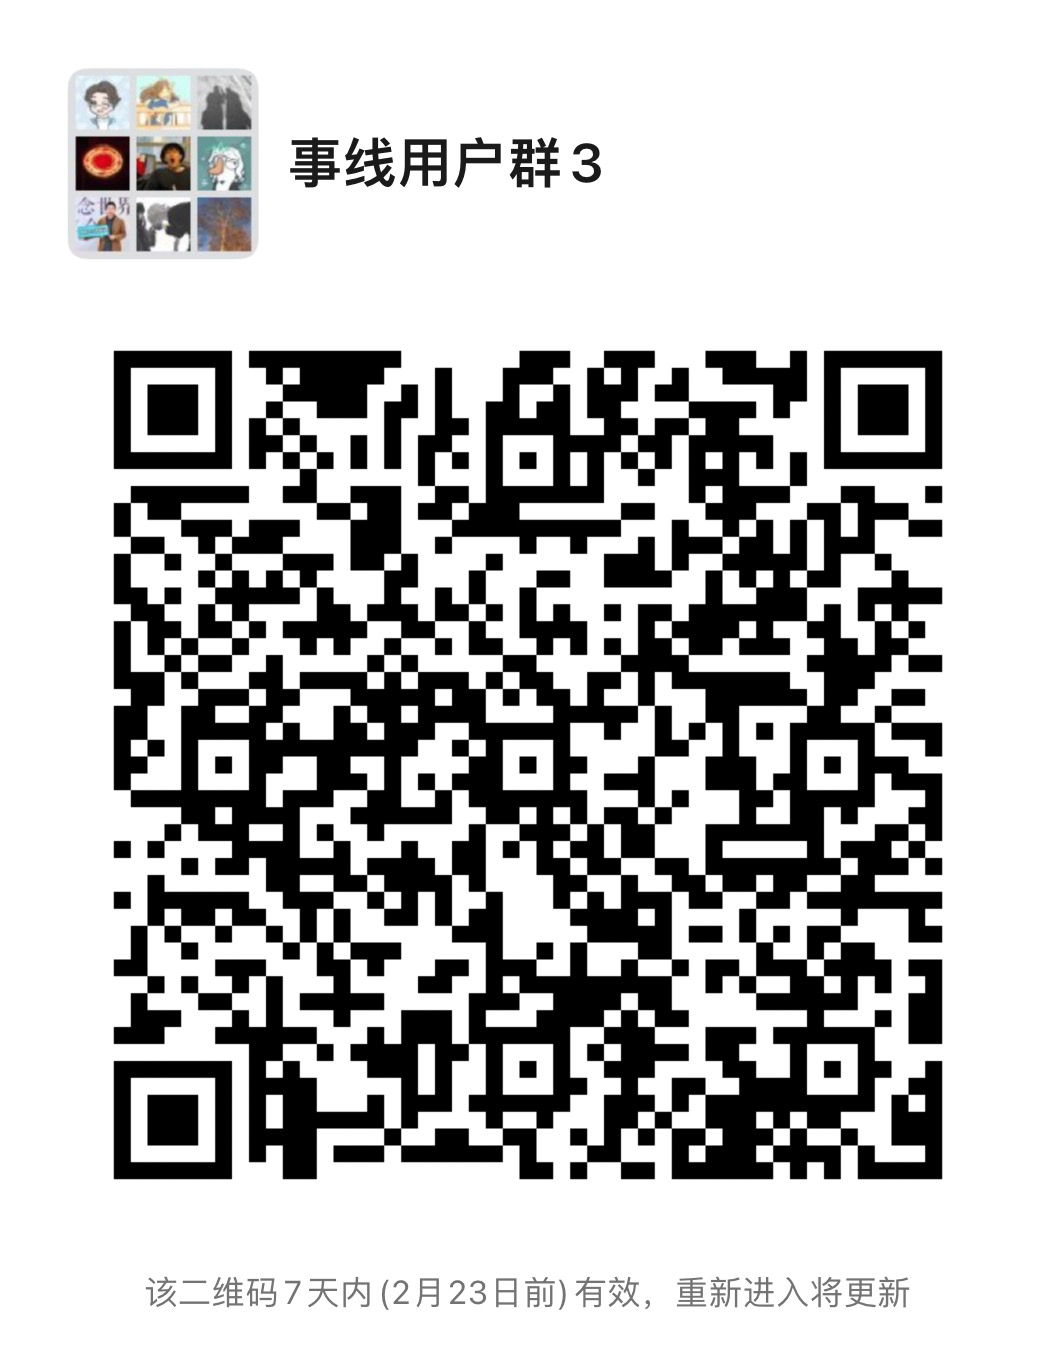
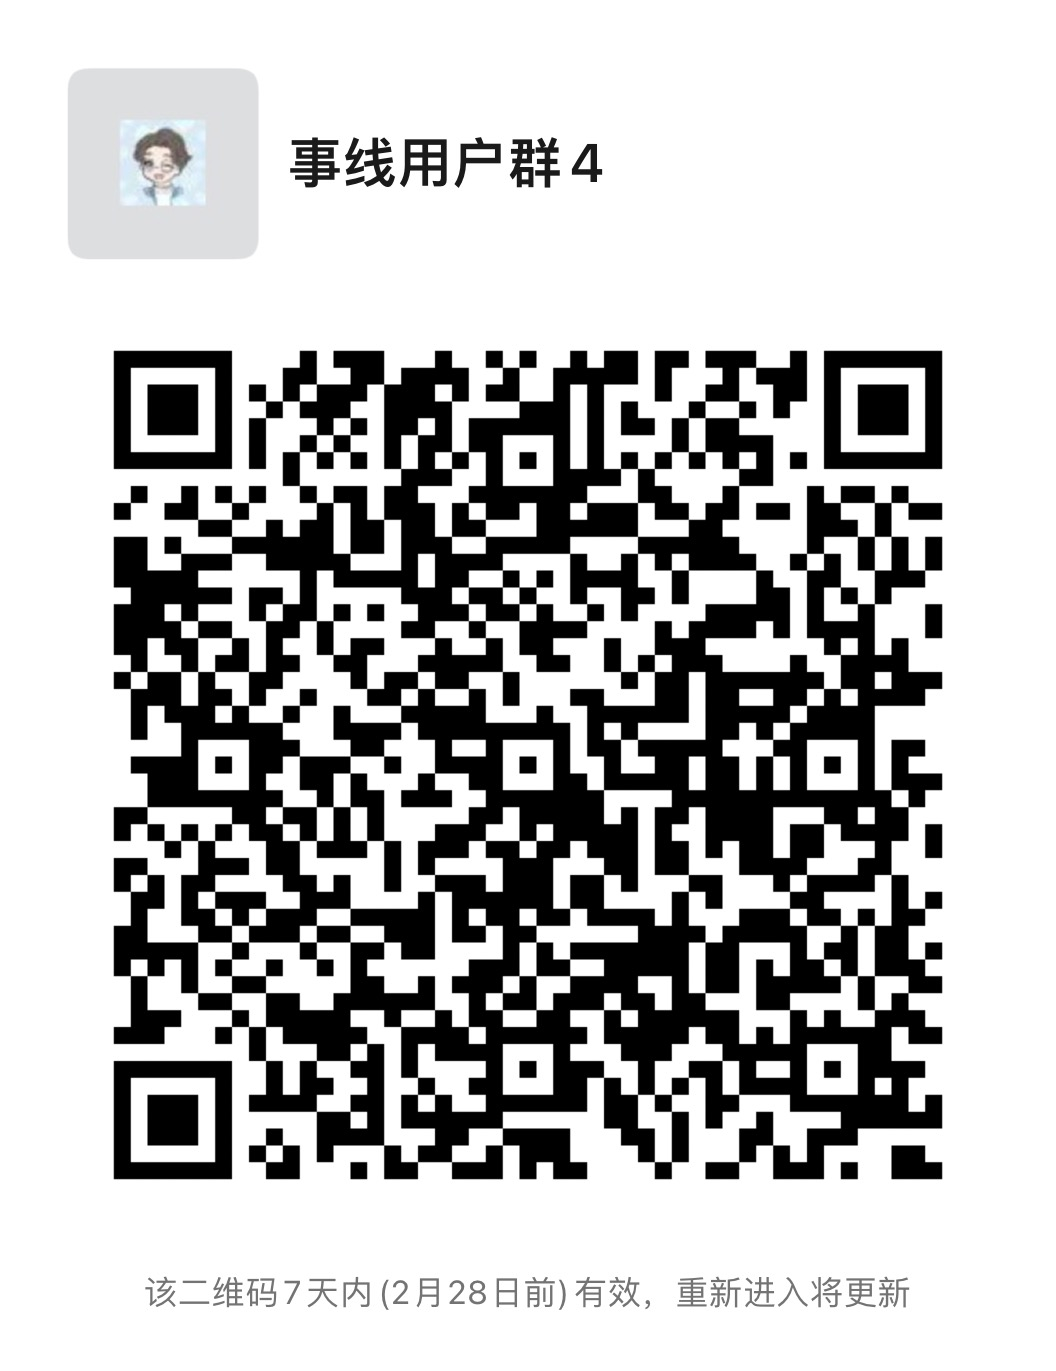
a

Changed region(s): [[0.0938, 0.2451, 0.9062, 0.8578], [0.0625, 0.0306, 0.25, 0.1838], [0.5312, 0.0919, 0.5625, 0.1532]]

diff --git a/docs/01.pages/03.共建/002.用户群.md b/docs/01.pages/03.共建/002.用户群.md
@@ -9,7 +9,7 @@ permalink: /pages/16d8ae/
 
 <img src="/img/vx.png" class="no-zoom" style="width:15rem;margin: 10px;border-radius: 15px;margin: 2rem 0;box-shadow: 0 0px 20px rgb(0 0 0 / 20%);">
 
-#### （2月23日失效）
+#### （2月28日失效）
 
 
 :::
